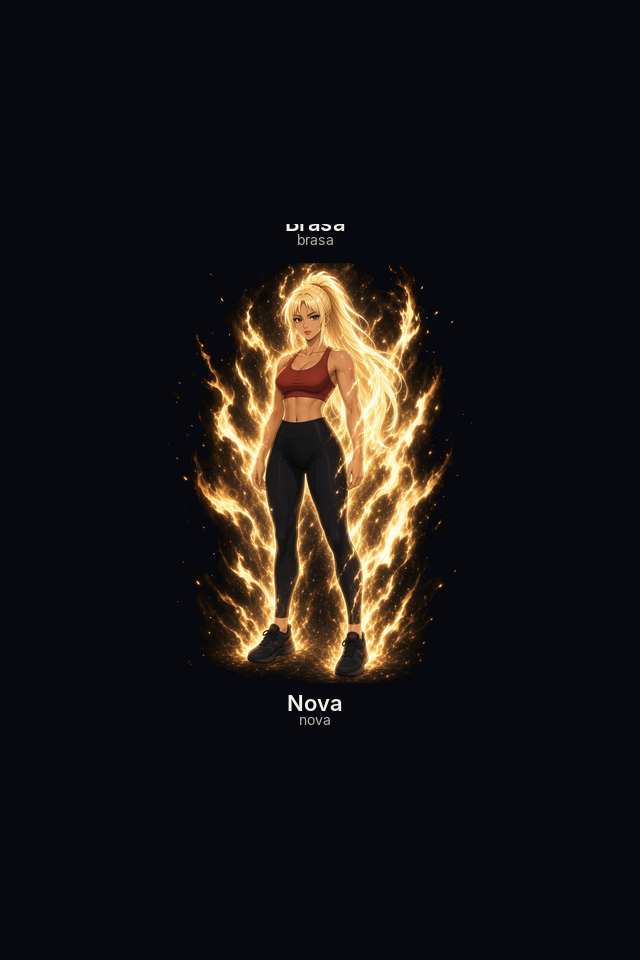
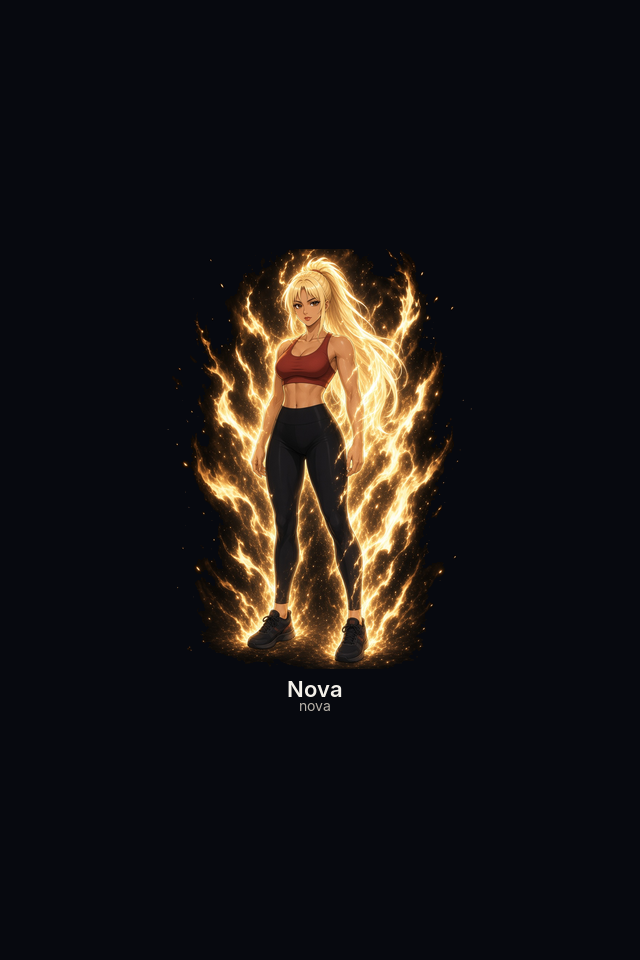
Recortar los rangos enteros y dejar Hoy dentro de la pantalla.
La fila superior de la hoja incluye los pies. Historial y progreso esperan al título antes de la captura.

Changed region(s): [[0.2812, 0.2188, 0.7188, 0.75]]

diff --git a/e2e/premium.spec.ts b/e2e/premium.spec.ts
@@ -24,6 +24,7 @@ test('capturas del paquete premium', async ({ page }) => {
   await page.getByRole('button', { name: 'Continuar' }).click();
   await page.getByRole('button', { name: 'Solo peso corporal' }).click();
   await page.getByRole('button', { name: 'Continuar' }).click();
+  await page.getByRole('button', { name: 'Más días' }).click();
   await page.getByRole('button', { name: 'Continuar' }).click();
   await page.getByRole('button', { name: 'Empezar' }).click();
   await expect(page.getByText('Chispa')).toBeVisible();
@@ -102,9 +103,11 @@ test('capturas del paquete premium', async ({ page }) => {
   await shot(page, 'reto');
 
   await page.goto('/historial');
+  await expect(page.getByRole('heading', { name: 'Historial' })).toBeVisible();
   await shot(page, 'historial');
 
   await page.goto('/poder');
+  await expect(page.getByRole('heading', { name: /Nivel/ })).toBeVisible();
   await shot(page, 'progreso');
 
   await page.goto('/historial/volumen');

diff --git a/src/styles/premium.css b/src/styles/premium.css
@@ -222,6 +222,59 @@ a { color: #f4f1ea; }
   width: min(168px, 42vw);
 }
 
+@media (max-width: 420px) {
+  .screen.dashboard {
+    padding-top: 8px;
+  }
+
+  .dashboard .power-board {
+    grid-template-columns: 96px minmax(0, 1fr);
+    justify-items: start;
+    text-align: left;
+    align-items: center;
+    gap: 8px;
+  }
+
+  .dashboard .power-copy {
+    justify-items: start;
+    text-align: left;
+  }
+
+  .dashboard .avatar-frame,
+  .dashboard .avatar-frame img {
+    width: 96px;
+    height: 128px;
+  }
+
+  .dashboard .coach-bubble {
+    margin-bottom: 8px;
+  }
+
+  .dashboard .card {
+    padding: 8px 12px;
+  }
+
+  .dashboard h2 {
+    font-size: 17px;
+    line-height: 22px;
+    margin: 0;
+  }
+
+  .dashboard .hero-card {
+    margin-top: 8px;
+  }
+
+  .dashboard .ring svg {
+    width: 40px;
+    height: 40px;
+  }
+
+  .dashboard .ring-num {
+    top: 10px;
+    font-size: 10px;
+  }
+}
+
 .avatar-choice {
   align-items: stretch;
 }
